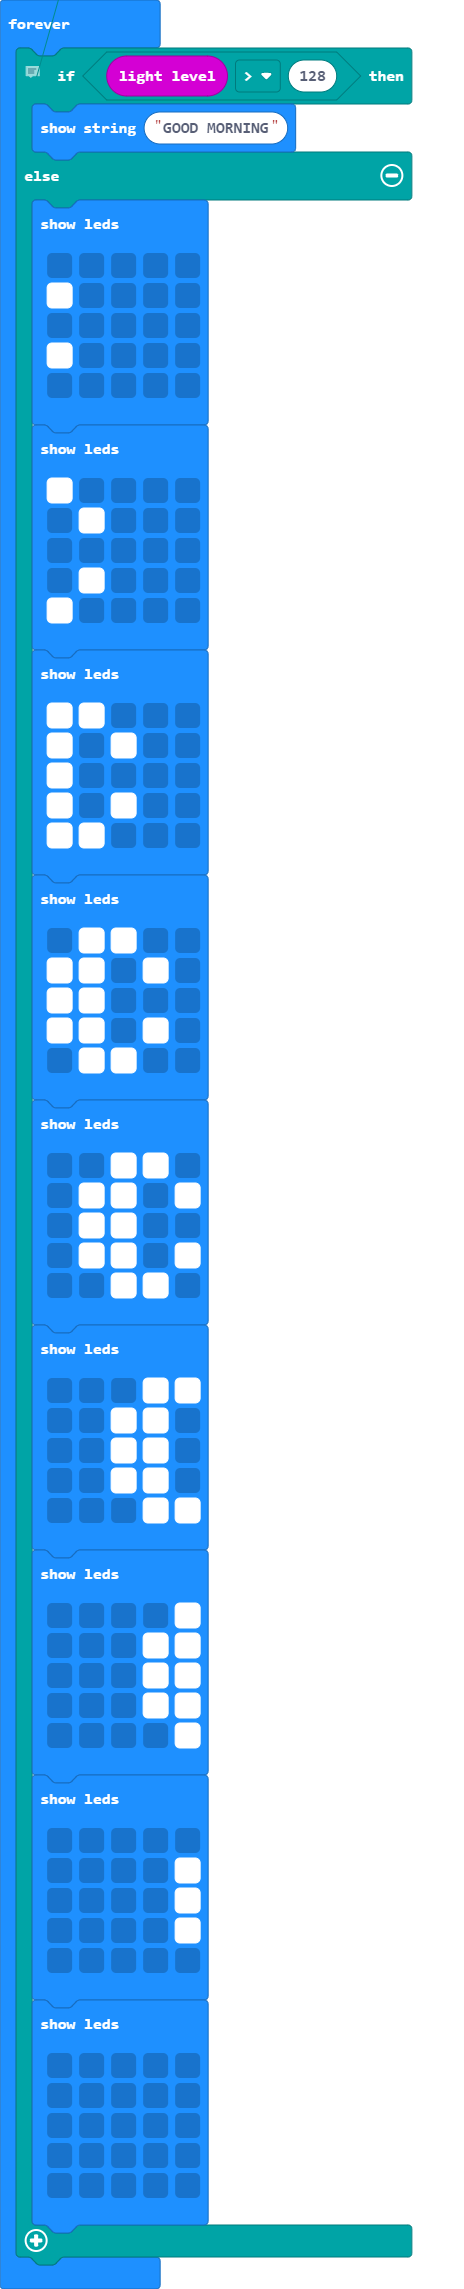
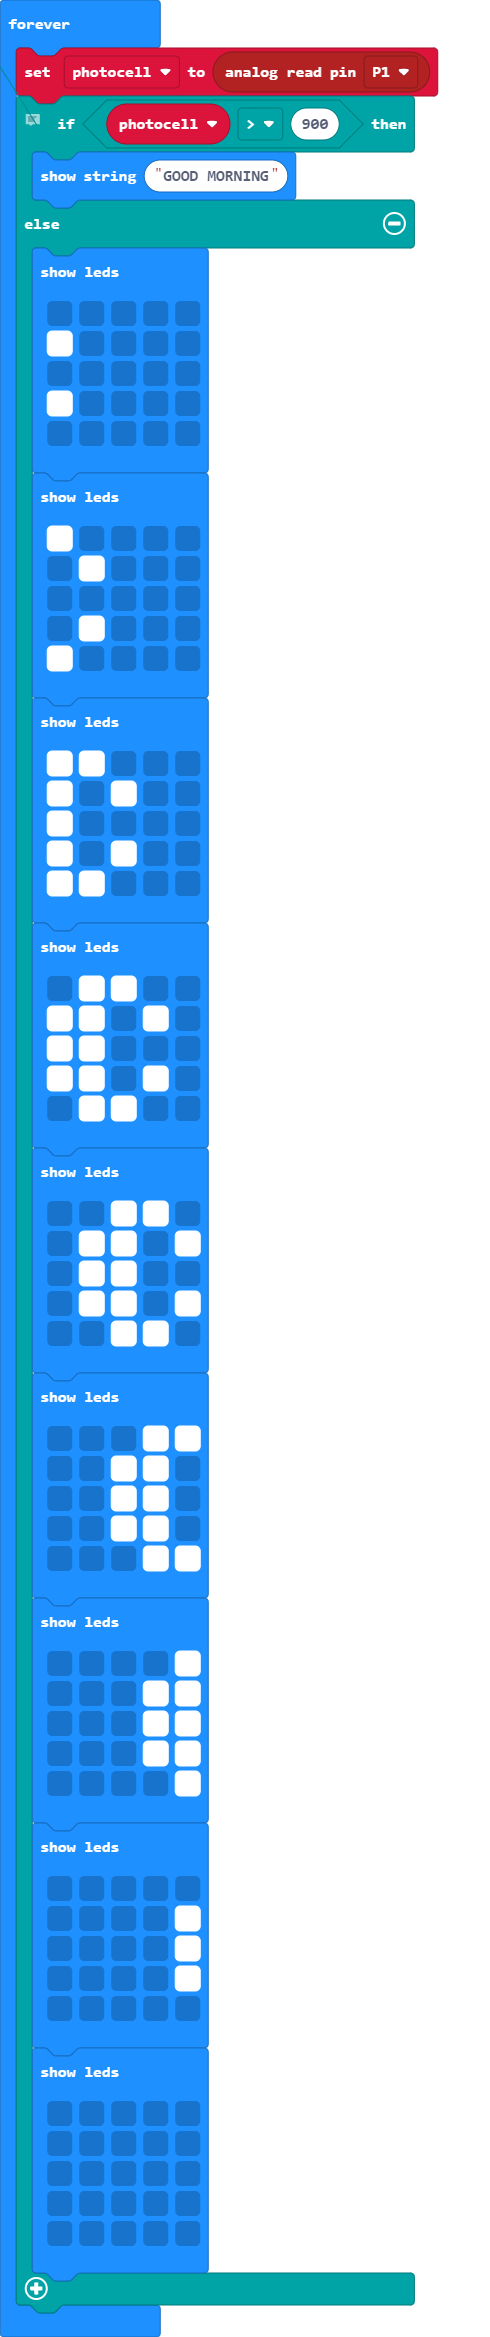
Update main.blocks, main.ts

Changed region(s): [[0.0302, 0.0, 0.9052, 1.0], [0.8448, 0.9616, 0.9052, 0.9926]]

diff --git a/main.ts b/main.ts
@@ -1,6 +1,8 @@
+let photocell = 0
 basic.forever(function () {
+    photocell = pins.analogReadPin(AnalogPin.P1)
     // if it's sunny it'll say good morning if not a moon will scroll across the screen
-    if (input.lightLevel() > 128) {
+    if (photocell > 900) {
         basic.showString("GOOD MORNING")
     } else {
         basic.showLeds(`
